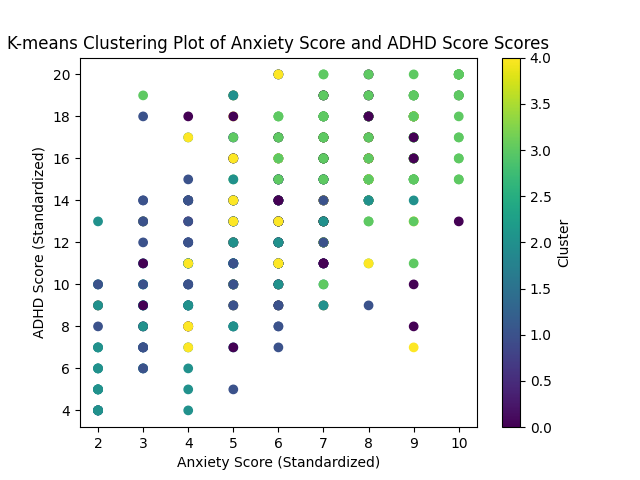
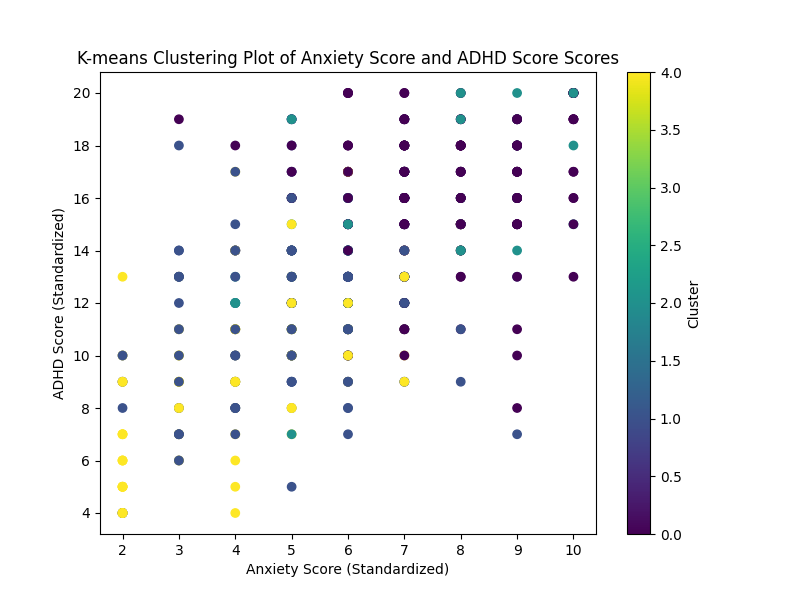
complete

diff --git a/pyspark/graph.py b/pyspark/graph.py
@@ -52,16 +52,6 @@ def causal_ineference(clustered_data):
     # Add edges from the learned model structure
     G.add_edges_from(best_model_structure.edges())
 
-    # Draw the graph
-    pos = nx.spring_layout(G)  # positions for all nodes
-    nx.draw(G, pos, with_labels=True, node_size=700, node_color="skyblue",
-            font_size=10, font_weight="bold", arrows=True)
-    plt.title("Learned Causal Graph Structure")
-    plt.figure(figsize=(70, 50))  # Adjust width and height as needed
-
-    # Show plot
-    plt.savefig(f'{IMAGES_DIR}/causal_inference.png')
-
 
 def generate_heatmap(df):
     # Calculate the correlation matrix
@@ -95,12 +85,13 @@ def generate_corr_hist(df: pd.DataFrame, variables: List):
 
 
 def plot_silhouette_score(silhouette_scores, initial_k, K):
-    plt.clf()
+    plt.figure(figsize=(8, 6))
     plt.plot(range(initial_k, K), silhouette_scores)
     plt.xlabel('Number of Clusters (k)')
     plt.ylabel('Silhouette Score')
     plt.title('Silhouette Score vs Number of Clusters')
     plt.savefig(f'{IMAGES_DIR}/silhouette_plot.png')
+    plt.close()
 
 
 def plot_kmeans_clusters(clustered_data):
@@ -110,7 +101,7 @@ def plot_kmeans_clusters(clustered_data):
 
     for i in range(len(features)):
         for j in range(i+1, len(features)):
-            plt.figure()
+            plt.figure(figsize=(8, 6))
             plt.scatter(clustered_data_pd[features[i]], clustered_data_pd[features[j]],
                         c=clustered_data_pd['cluster'], cmap='viridis')
             plt.xlabel(f'{features[i]} (Standardized)')

diff --git a/pyspark/spark_standalone.py b/pyspark/spark_standalone.py
@@ -7,7 +7,7 @@ from model import *
 
 DATASET_PATH = './Data/dataset.csv'
 INITIAL_K = 2
-K = 3
+K = 20
 
 if __name__ == '__main__':
     # Initialize SparkSession
